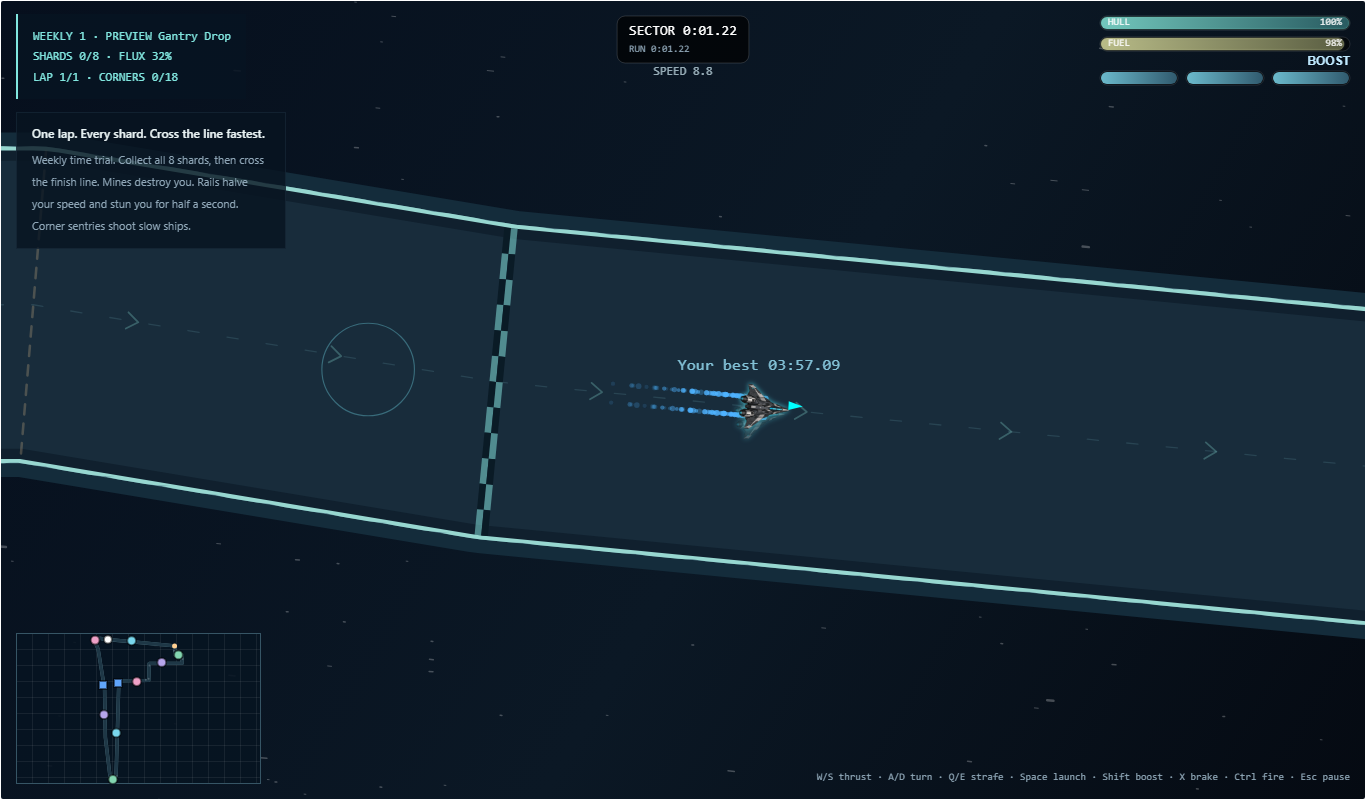
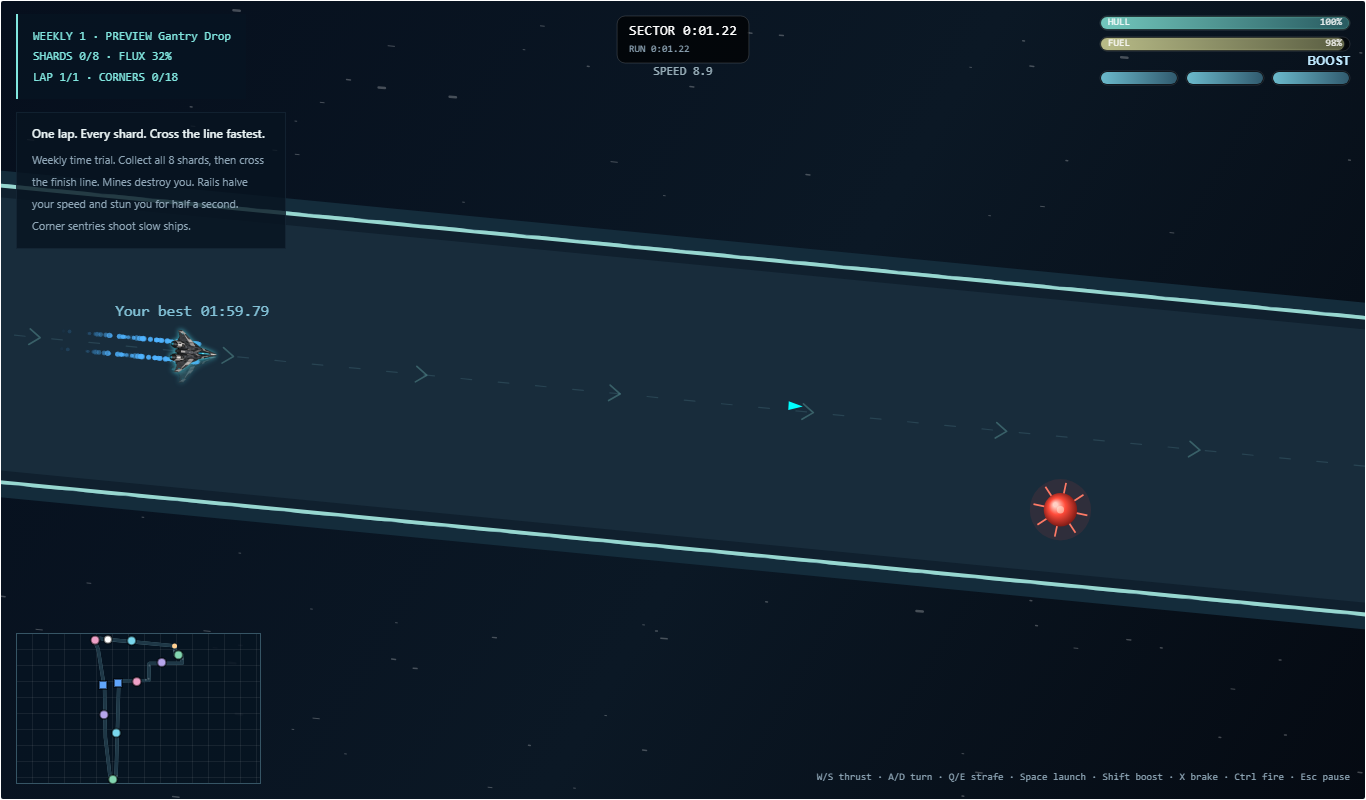
Weekly: smooth motion on high-refresh screens and a chase camera
The weekly simulation steps at a fixed 120 Hz. On 144/165 Hz screens a frame
held two steps, one or none, so the ship and the world visibly stuttered.
The renderer and camera now draw interpolated poses between the last two
steps (ship, bouncing asteroids, shots, ghosts). Frame-to-frame unevenness at
165 Hz pacing: 0.76 -> 0.004 (second-difference ratio, top straight).
Visual only: recordings and times are unchanged (replays still match).

The weekly camera now frames the ship near the trailing edge of its direction
of travel (12% in at speed), so most of the screen shows what's ahead, with a
slight zoom-out at speed. The network circuits keep their camera.

diff --git a/projects/Space-Shooter/engine/modes/weekly.js b/projects/Space-Shooter/engine/modes/weekly.js
@@ -16,7 +16,7 @@ import { updateHUD, toast } from "../../ui/hud.js";
 import { openEndOverlay } from "../../ui/overlays.js";
 import { stopEngine } from "../core.js";
 import { startCountdown } from "../lifecycle.js";
-import { clearCameraPan } from "../systems/camera.js";
+import { clearCameraPan, resetWeeklyCamera } from "../systems/camera.js";
 import { spawnExhaust, updateParticles } from "../systems/particles.js";
 import { playMusic, playSoundEffectThrottled } from "../../audio.js";
 
@@ -84,6 +84,7 @@ export function startWeekly(event, { preview = false } = {}) {
 
 function buildAttempt() {
   clearCameraPan();
+  resetWeeklyCamera();
   state.gfx.camera.zoom = WEEKLY_ZOOM;
   state.gfx.camera._baseZoom = WEEKLY_ZOOM;
   resizeCanvas();
@@ -177,6 +178,7 @@ export function updateWeekly(dt) {
   lv.acc = Math.min(lv.acc + Math.min(Math.max(0, dt), 0.1), 0.25);
   while (lv.acc >= STEP - 1e-9) {
     lv.acc -= STEP;
+    rememberPoses(lv);
     const frame = frameFromKeys(state.keys);
     const wasLocked = lv.lockedInStart;
     const events = stepWeekly(lv, frame);
@@ -205,9 +207,32 @@ export function updateWeekly(dt) {
   }
   lv.activeMs = sceneMs(lv);
   state.run.totalActiveMs = lv.activeMs;
+  updateView(lv);
   updateTarget(lv);
   updateParticles(dt);
   updateHUD();
+}
+
+// Render interpolation. The simulation steps at exactly 120 Hz, but screens
+// refresh at 60, 144, 165 Hz…, so a frame can hold two steps, one or none. The
+// renderer and camera draw everything between the last two steps instead of
+// at the last one, which keeps motion smooth on any display. Visual only: the
+// simulation, recordings and times never see these numbers.
+function rememberPoses(lv) {
+  const p = lv.player;
+  lv._prev = { x: p.x, y: p.y, angle: p.angle };
+  for (const h of lv.hazards) { h._px = h.x; h._py = h.y; }
+}
+
+const lerp = (a, b, t) => a + (b - a) * t;
+function updateView(lv) {
+  const alpha = Math.max(0, Math.min(1, lv.acc / STEP));
+  lv.alpha = alpha;
+  const p = lv.player, prev = lv._prev || p;
+  let da = p.angle - prev.angle;
+  da = Math.atan2(Math.sin(da), Math.cos(da));
+  lv.viewPlayer = { ...p, x: lerp(prev.x, p.x, alpha), y: lerp(prev.y, p.y, alpha), angle: prev.angle + da * alpha };
+  lv.viewHazards = lv.hazards.map((h) => (h.hp > 0 && h._px != null ? { ...h, x: lerp(h._px, h.x, alpha), y: lerp(h._py, h.y, alpha) } : h));
 }
 
 function finish(lv) {
@@ -237,7 +262,8 @@ function finish(lv) {
 export function ghostPosesNow() {
   const lv = state.run?.current;
   if (!lv?.weekly || !ghostsVisible) return [];
-  const ms = sceneMs(lv);
+  // Interpolated like the ship, so ghost and ship move in step.
+  const ms = sceneMs(lv) + (lv.launched && !lv.finished ? (lv.alpha || 0) * STEP * 1000 : 0);
   const out = [];
   for (const g of ghosts.values()) {
     const pose = ghostPose(g.poses, ms);

diff --git a/projects/Space-Shooter/engine/systems/camera.js b/projects/Space-Shooter/engine/systems/camera.js
@@ -67,9 +67,52 @@ export function clearCameraPan() {
   cam._hold = null;
 }
 
+// Weekly time trial: chase framing. The ship sits near the trailing edge of the
+// screen along its direction of travel, so most of the view shows what's ahead
+// (mines come fast at these speeds). Locked to the ship's interpolated pose, so
+// the only smoothing is on the direction and how far ahead it looks.
+const CHASE = {
+  LEAD: 0.76,        // at speed: ship 12% in from the trailing edge
+  LEAD_SLOW: 0.3,    // parked or crawling: closer to the middle
+  FULL_AT: 6,        // cells/s where the full lead applies
+  DIR_RESP: 2.8,     // how fast the framing turns with the ship (1/s)
+  LEAD_RESP: 2.2,
+  ZOOM_OUT: 0.9,     // zoom multiplier at full speed
+};
+function updateWeeklyCamera(cam, dt, player) {
+  const speed = Math.hypot(player.vx || 0, player.vy || 0);
+  // Where the ship is going, not where it points; the nose when it barely moves.
+  const want = speed > 1.5 ? Math.atan2(player.vy, player.vx) : player.angle;
+  const k = (rate) => 1 - Math.exp(-rate * Math.max(0, dt));
+  if (!Number.isFinite(cam._chaseDir)) cam._chaseDir = want;
+  cam._chaseDir += angDelta(cam._chaseDir, want) * k(CHASE.DIR_RESP);
+  const fast = Math.min(1, speed / CHASE.FULL_AT);
+  const leadWant = lerp(CHASE.LEAD_SLOW, CHASE.LEAD, fast);
+  cam._chaseLead = Number.isFinite(cam._chaseLead) ? lerp(cam._chaseLead, leadWant, k(CHASE.LEAD_RESP)) : leadWant;
+  const baseZoom = (cam._baseZoom ??= (cam.zoom ?? (config.CAMERA_BASE_ZOOM ?? 1)));
+  cam.zoom = lerp(cam.zoom ?? baseZoom, baseZoom * lerp(1, CHASE.ZOOM_OUT, Math.min(1, speed / 12)), k(1.5));
+  const gfx = state.gfx;
+  const unit = (gfx.cellW || 1) * cam.zoom;
+  const halfW = (gfx.canvas?.width / (gfx.dpr || 1)) / unit / 2;
+  const halfH = (gfx.canvas?.height / (gfx.dpr || 1)) / unit / 2;
+  const dx = Math.cos(cam._chaseDir), dy = Math.sin(cam._chaseDir);
+  // Distance from the screen centre to its edge along the travel direction.
+  const edge = Math.min(Math.abs(dx) > 1e-6 ? halfW / Math.abs(dx) : Infinity, Math.abs(dy) > 1e-6 ? halfH / Math.abs(dy) : Infinity);
+  const lead = Number.isFinite(edge) ? edge * cam._chaseLead : 0;
+  cam.x = player.x + dx * lead;
+  cam.y = player.y + dy * lead;
+  return cam;
+}
+export function resetWeeklyCamera() {
+  const cam = ensureCamera();
+  cam._chaseDir = NaN;
+  cam._chaseLead = NaN;
+}
+
 export function updateCamera(dt, player) {
   const cam = ensureCamera();
   if (!player) return cam;
+  if (state.mode === 'roadmap' && state.run?.current?.weekly && !cam._pan?.active && !cam._hold) return updateWeeklyCamera(cam, dt, player);
 
   // If we are in a cinematic pan, drive position solely by pan until finished
   if (cam._pan?.active) {

diff --git a/projects/Space-Shooter/gfx/weeklyVfx.js b/projects/Space-Shooter/gfx/weeklyVfx.js
@@ -52,13 +52,17 @@ export function drawWeeklyWorld(ctx, scene, unit, time, { ghosts = [], shipImg =
     ctx.fillStyle = hot ? '#fff1a4' : '#ff9447'; circle(ctx, 0, 0, r * 0.3); ctx.fill();
     ctx.restore();
   }
-  // Shots.
+  // Shots, interpolated between steps like the ship (scene.alpha).
+  const a = scene.alpha ?? 1;
+  const at = (s) => ({ x: s.prevX == null ? s.x : s.prevX + (s.x - s.prevX) * a, y: s.prevY == null ? s.y : s.prevY + (s.y - s.prevY) * a });
   for (const s of scene.enemyShots) {
+    const q = at(s);
     ctx.save(); ctx.strokeStyle = '#ff8a3d'; ctx.shadowColor = '#ff8800'; ctx.shadowBlur = 10; ctx.lineWidth = unit * 0.14; ctx.lineCap = 'round';
-    ctx.beginPath(); ctx.moveTo((s.x - s.vx * 0.03) * unit, (s.y - s.vy * 0.03) * unit); ctx.lineTo(s.x * unit, s.y * unit); ctx.stroke(); ctx.restore();
+    ctx.beginPath(); ctx.moveTo((q.x - s.vx * 0.03) * unit, (q.y - s.vy * 0.03) * unit); ctx.lineTo(q.x * unit, q.y * unit); ctx.stroke(); ctx.restore();
   }
   for (const s of scene.playerShots) {
-    ctx.save(); ctx.fillStyle = '#00ffff'; ctx.shadowColor = '#00ffff'; ctx.shadowBlur = 10; circle(ctx, s.x * unit, s.y * unit, 0.15 * unit); ctx.fill(); ctx.restore();
+    const q = at(s);
+    ctx.save(); ctx.fillStyle = '#00ffff'; ctx.shadowColor = '#00ffff'; ctx.shadowBlur = 10; circle(ctx, q.x * unit, q.y * unit, 0.15 * unit); ctx.fill(); ctx.restore();
   }
   // Ghosts: translucent ships with a name tag.
   for (const g of ghosts) {
@@ -69,7 +73,7 @@ export function drawWeeklyWorld(ctx, scene, unit, time, { ghosts = [], shipImg =
     ctx.restore();
   }
   // Stun: a flickering ring around the ship.
-  const p = scene.player;
+  const p = scene.viewPlayer || scene.player;
   if (p?.stunTimer > 0) {
     ctx.save(); ctx.strokeStyle = `rgba(255,214,120,${0.5 + 0.4 * Math.sin(time * 40) ** 2})`; ctx.lineWidth = 2; ctx.setLineDash([4, 4]);
     circle(ctx, p.x * unit, p.y * unit, unit * 0.75); ctx.stroke(); ctx.restore();

diff --git a/projects/Space-Shooter/ui/graphics.js b/projects/Space-Shooter/ui/graphics.js
@@ -317,12 +317,13 @@ function drawRoadmap(ctx) {
   const lv = state.run?.current;
   if (lv?.track) drawCircuit(ctx, lv);
   else { drawPlayfieldSlab(); drawGrid(); }
-  drawFlightEnvironment(ctx, {...lv,reducedMotion:state.settings?.reducedMotion}, state.gfx.cellW, state.gfx.visualTime || 0, assets);
+  // The weekly mode draws interpolated poses between its fixed steps (engine/modes/weekly.js).
+  drawFlightEnvironment(ctx, {...lv,hazards:lv?.viewHazards || lv?.hazards,reducedMotion:state.settings?.reducedMotion}, state.gfx.cellW, state.gfx.visualTime || 0, assets);
   drawNodes();
   if (lv?.weekly) drawWeeklyWorld(ctx, lv, state.gfx.cellW, state.gfx.visualTime || 0, { ghosts: ghostPosesNow(), shipImg: assets.playerShip, reducedMotion: !!state.settings?.reducedMotion });
   drawProjectiles();
   drawParticles();
-  if (!lv?.wreck) drawShip(lv?.player);
+  if (!lv?.wreck) drawShip(lv?.viewPlayer || lv?.player);
 }
 
 function drawCircuit(ctx, scene) {

diff --git a/projects/Space-Shooter/engine/core.js b/projects/Space-Shooter/engine/core.js
@@ -29,7 +29,8 @@ function update(dt) {
   state.gfx.lastDt = dt;
   updateCurrentMode(dt);
   // Update camera after movement updates; prefer arena player else roadmap
-  const p = state.arena?.player || state.run?.current?.player || null;
+  // The weekly mode's interpolated pose when it has one (engine/modes/weekly.js).
+  const p = state.arena?.player || state.run?.current?.viewPlayer || state.run?.current?.player || null;
   updateCamera(dt, p);
 }
 
